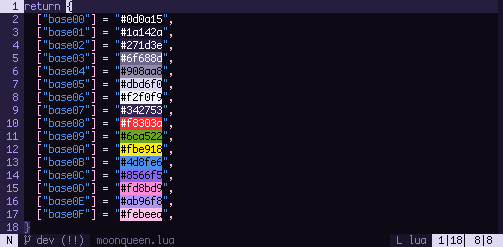
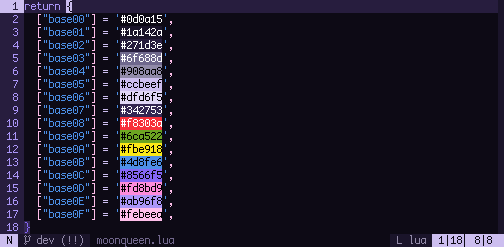
fg

diff --git a/README.md b/README.md
@@ -22,7 +22,7 @@ a colorscheme for neovim inspired by *bishoujo senshi sailor moon*. built with [
 | `#4d8fe6` | `#79abec` |
 | `#8566f5` | `#ab96f8` |
 | `#fd8bd9` | `#febeea` |
-| `#908aa8` | `#dbd6f0` |
+| `#908aa8` | `#ccbeef` |
 
 **base16**
 |        |           |
@@ -32,8 +32,8 @@ a colorscheme for neovim inspired by *bishoujo senshi sailor moon*. built with [
 | base02 | `#271d3e` |
 | base03 | `#6f688d` |
 | base04 | `#908aa8` |
-| base05 | `#dbd6f0` |
-| base06 | `#f2f0f9` |
+| base05 | `#ccbeef` |
+| base06 | `#dfd6f5` |
 | base07 | `#342753` |
 | base08 | `#f8303a` |
 | base09 | `#6ca522` |
